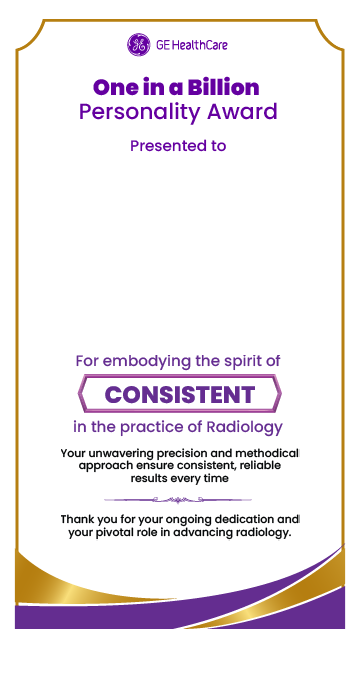
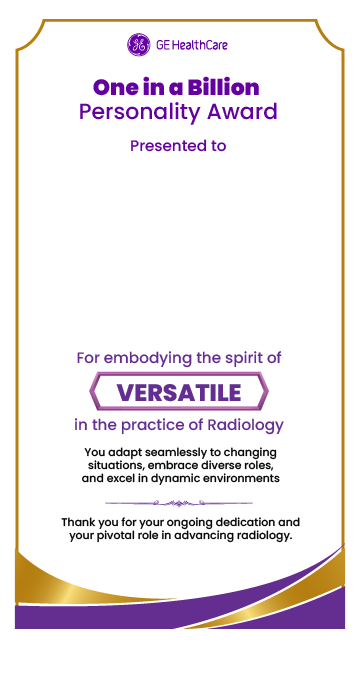
wip

Changed region(s): [[0.1528, 0.4985, 0.8556, 0.8101]]

diff --git a/src/pages/Survey.jsx b/src/pages/Survey.jsx
@@ -1,7 +1,6 @@
 import { useEffect, useState } from "react";
 import { useNavigate } from "react-router-dom";
 import Header from "../components/Header";
-import Options from "../components/Options";
 import shuffle from "../components/Shuffle";
 import questionsData from "./../data/featureData";
 
@@ -9,7 +8,7 @@ const Survey = () => {
   const navigate = useNavigate();
   const [questions, setQuestions] = useState([]);
   const [currentQuestion, setCurrentQuestion] = useState(0);
-  const [isSelected, setIsSelected] = useState(false);
+  const [selectedOptions, setSelectedOptions] = useState([]);
   const [gameOver, setGameOver] = useState(false);
 
   useEffect(() => {
@@ -17,38 +16,61 @@ const Survey = () => {
     setQuestions(shuffledQuestions);
   }, []);
 
+  const handleOptionSelect = (index) => {
+    if (selectedOptions.includes(index)) {
+      setSelectedOptions(selectedOptions.filter((i) => i !== index));
+    } else if (selectedOptions.length < 3) {
+      setSelectedOptions([...selectedOptions, index]);
+    }
+  };
+
   const handleClick = () => {
-    navigate("/description");
+    if (selectedOptions.length === 3) {
+      navigate("/description");
+    }
   };
 
   return (
     <div className="screenHeight w-full bg-[#ffe9ff] border-[2px]">
       <Header />
-      <div className="px-6 relative w-full mainBox2  ">
+      <div className="px-6 relative w-full mainBox2">
         <div
           className="borderCustom flex flex-col gap-6 pt-6 items-center justify-center"
           style={{ height: "90%" }}
         >
-          {/* <div className="scoreBoard flex items-center justify-center mb-auto mt-0">
-            <div className="w-20 h-8 text-center text-[#662d91] font-bold text-xl">
-              {`${currentQuestion + 1} / ${totalQuestions}`}
-            </div>
-          </div> */}
           {questions.length > 0 && !gameOver && (
             <div className="text-center font-extrabold text-[#38013a] text-xl px-4 leading-6">
               {questions[currentQuestion].question}
             </div>
           )}
           {questions.length > 0 && (
-            <Options
-              options={questions[currentQuestion].options}
-              isSelected={isSelected}
-              setIsSelected={setIsSelected}
-              setGameOver={setGameOver}
-            />
+            <div className="flex flex-col items-center gap-4 px-0">
+              {questions[currentQuestion].options.map((option, index) => (
+                <button
+                  key={index}
+                  onClick={() => handleOptionSelect(index)}
+                  className={`ansBtn ${
+                    selectedOptions.includes(index) ? "selected" : ""
+                  }`}
+                  data-personality={option.personality}
+                  disabled={
+                    selectedOptions.length === 3 &&
+                    !selectedOptions.includes(index)
+                  }
+                >
+                  <span className="px-4">{option.data}</span>
+                </button>
+              ))}
+            </div>
           )}
         </div>
-        <button onClick={handleClick} className="goBtn">
+        <button
+          onClick={handleClick}
+          className={`goBtn ${
+            selectedOptions.length === 3 ? "enabled" : "disabled"
+          }`}
+          disabled={selectedOptions.length !== 3}
+        >
           ENTER
         </button>
       </div>

diff --git a/src/pages/Poster.jsx b/src/pages/Poster.jsx
@@ -3,8 +3,8 @@ import { useState, useContext, useEffect } from "react";
 import { AppContext } from "../context/AppContext";
 import { useNavigate } from "react-router-dom";
 import CONFIDENT from "./../assets/img1.png";
-import RELIABLE from "./../assets/img2.png";
-import CONSISTENCY from "./../assets/img3.png";
+import CONSISTENCY from "./../assets/img2.png";
+import VERSATILITY from "./../assets/img3.png";
 import html2canvas from "html2canvas";
 import Loader from "../components/Loader";
 import circle from "../assets/circle2.png";
@@ -13,6 +13,8 @@ const Poster = () => {
   const [loading, setLoading] = useState(false);
   const navigate = useNavigate();
   const { user, ans } = useContext(AppContext);
+
+  console.log(ans, "ans");
 
   // const downLoadPoster = () => {
   //   setLoading(true);
@@ -121,23 +123,7 @@ const Poster = () => {
               <h4>DR. {user?.drName}</h4>
             </>
           )}
-          {ans === "reliability" && (
-            <>
-              <img src={RELIABLE} alt="" />
-              <div className="img_sec">
-                {" "}
-                <img src={circle} alt="" className="circle" />{" "}
-                {user?.photo && (
-                  <img
-                    src={user.photo}
-                    alt="userphoto"
-                    className="user_photo"
-                  />
-                )}{" "}
-              </div>{" "}
-              <h4>DR. {user?.drName}</h4>
-            </>
-          )}
+
           {ans === "consistency" && (
             <>
               <img src={CONSISTENCY} alt="" />
@@ -152,6 +138,24 @@ const Poster = () => {
                   />
                 )}{" "}
               </div>
+              <h4>DR. {user?.drName}</h4>
+            </>
+          )}
+
+          {ans === "versatility" && (
+            <>
+              <img src={VERSATILITY} alt="" />
+              <div className="img_sec">
+                {" "}
+                <img src={circle} alt="" className="circle" />{" "}
+                {user?.photo && (
+                  <img
+                    src={user.photo}
+                    alt="userphoto"
+                    className="user_photo"
+                  />
+                )}{" "}
+              </div>{" "}
               <h4>DR. {user?.drName}</h4>
             </>
           )}

diff --git a/src/components/Options.jsx b/src/components/Options.jsx
@@ -1,4 +1,4 @@
-import React, { useState } from "react";
+import { useState } from "react";
 
 const Options = ({
   options,
@@ -6,7 +6,7 @@ const Options = ({
   setIsSelected,
   setNextQuestion,
   setConfidence,
-  setReliability,
+  setVersatility,
   setConsistency,
 }) => {
   const [selectedOptionIndex, setSelectedOptionIndex] = useState(null);
@@ -26,8 +26,8 @@ const Options = ({
       case "Confidence":
         setConfidence((prev) => prev + 1);
         break;
-      case "Reliability":
-        setReliability((prev) => prev + 1);
+      case "Versatility":
+        setVersatility((prev) => prev + 1);
         break;
       case "Consistency":
         setConsistency((prev) => prev + 1);
@@ -44,7 +44,9 @@ const Options = ({
           key={index}
           onClick={(e) => handleClick(e, index)}
           disabled={isSelected}
-          className={`ansBtn ${selectedOptionIndex === index ? "selected" : ""}`}
+          className={`ansBtn ${
+            selectedOptionIndex === index ? "selected" : ""
+          }`}
           data-personality={option.personality}
         >
           <span className="px-4">{option.data}</span>

diff --git a/src/pages/QuestionList.jsx b/src/pages/QuestionList.jsx
@@ -46,8 +46,9 @@ const QuestionList = () => {
       finalPersonality =
         topPersonalities[Math.floor(Math.random() * topPersonalities.length)];
     }
-
+    console.log(finalPersonality);
     setAns(finalPersonality);
+
     navigate("/poster");
   }, [confidence, versatility, consistency, navigate, setAns]);
 
